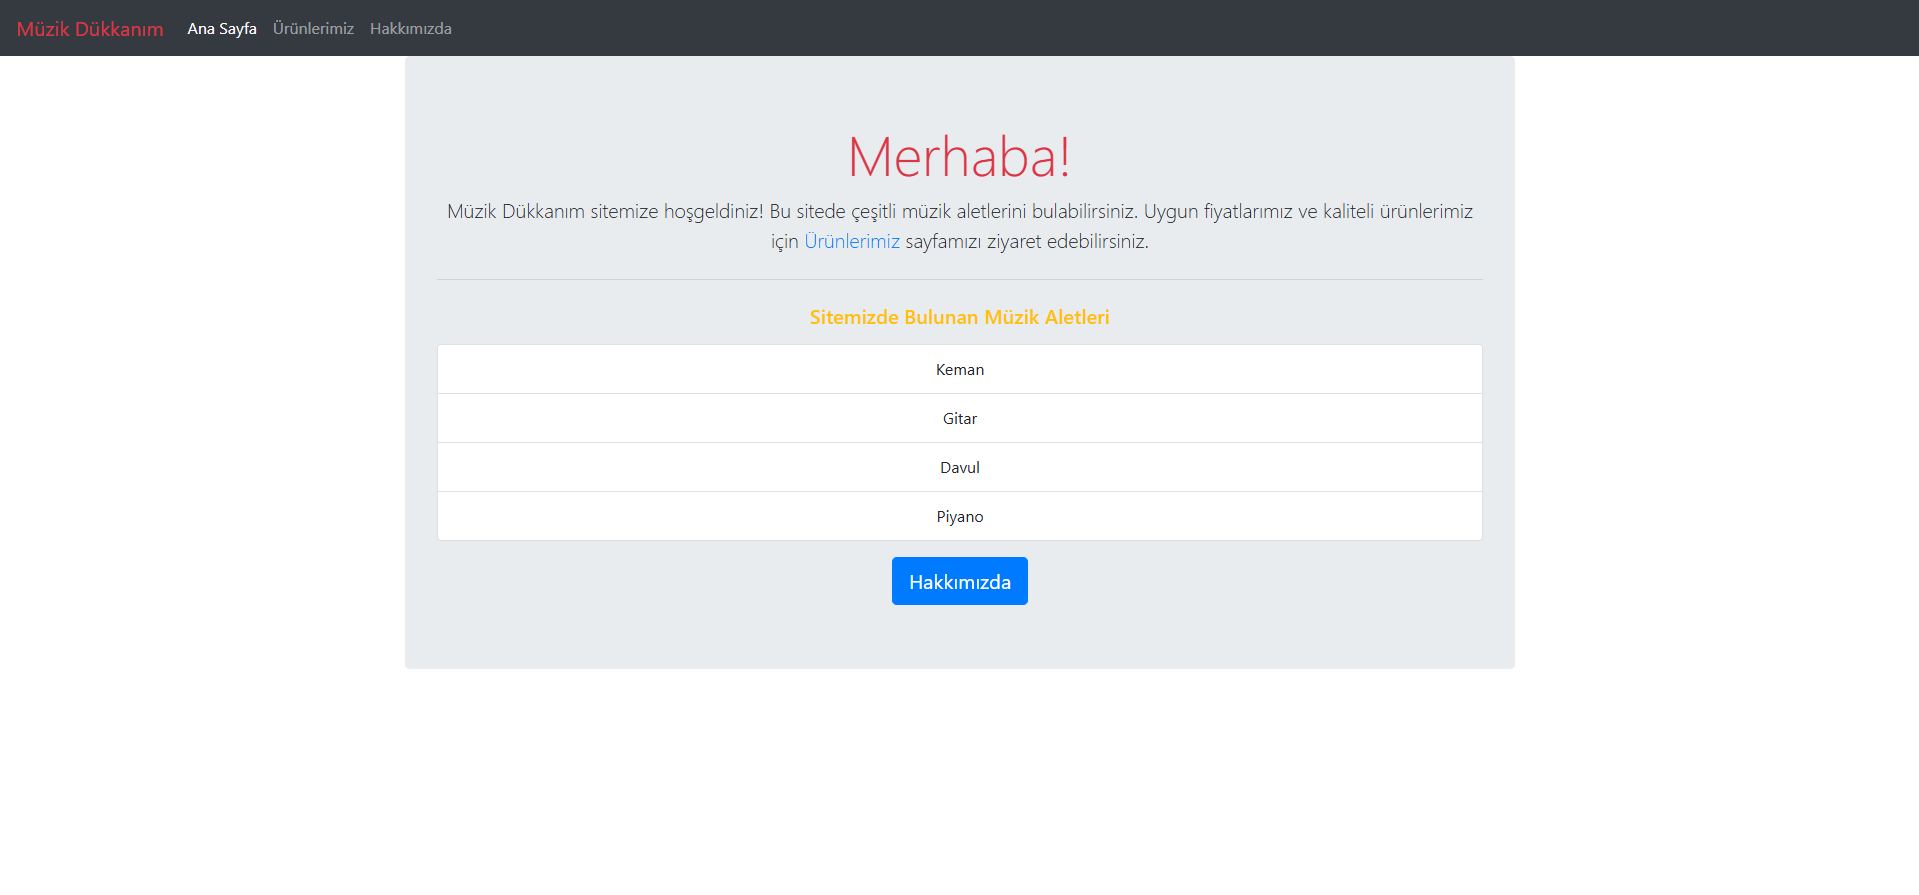
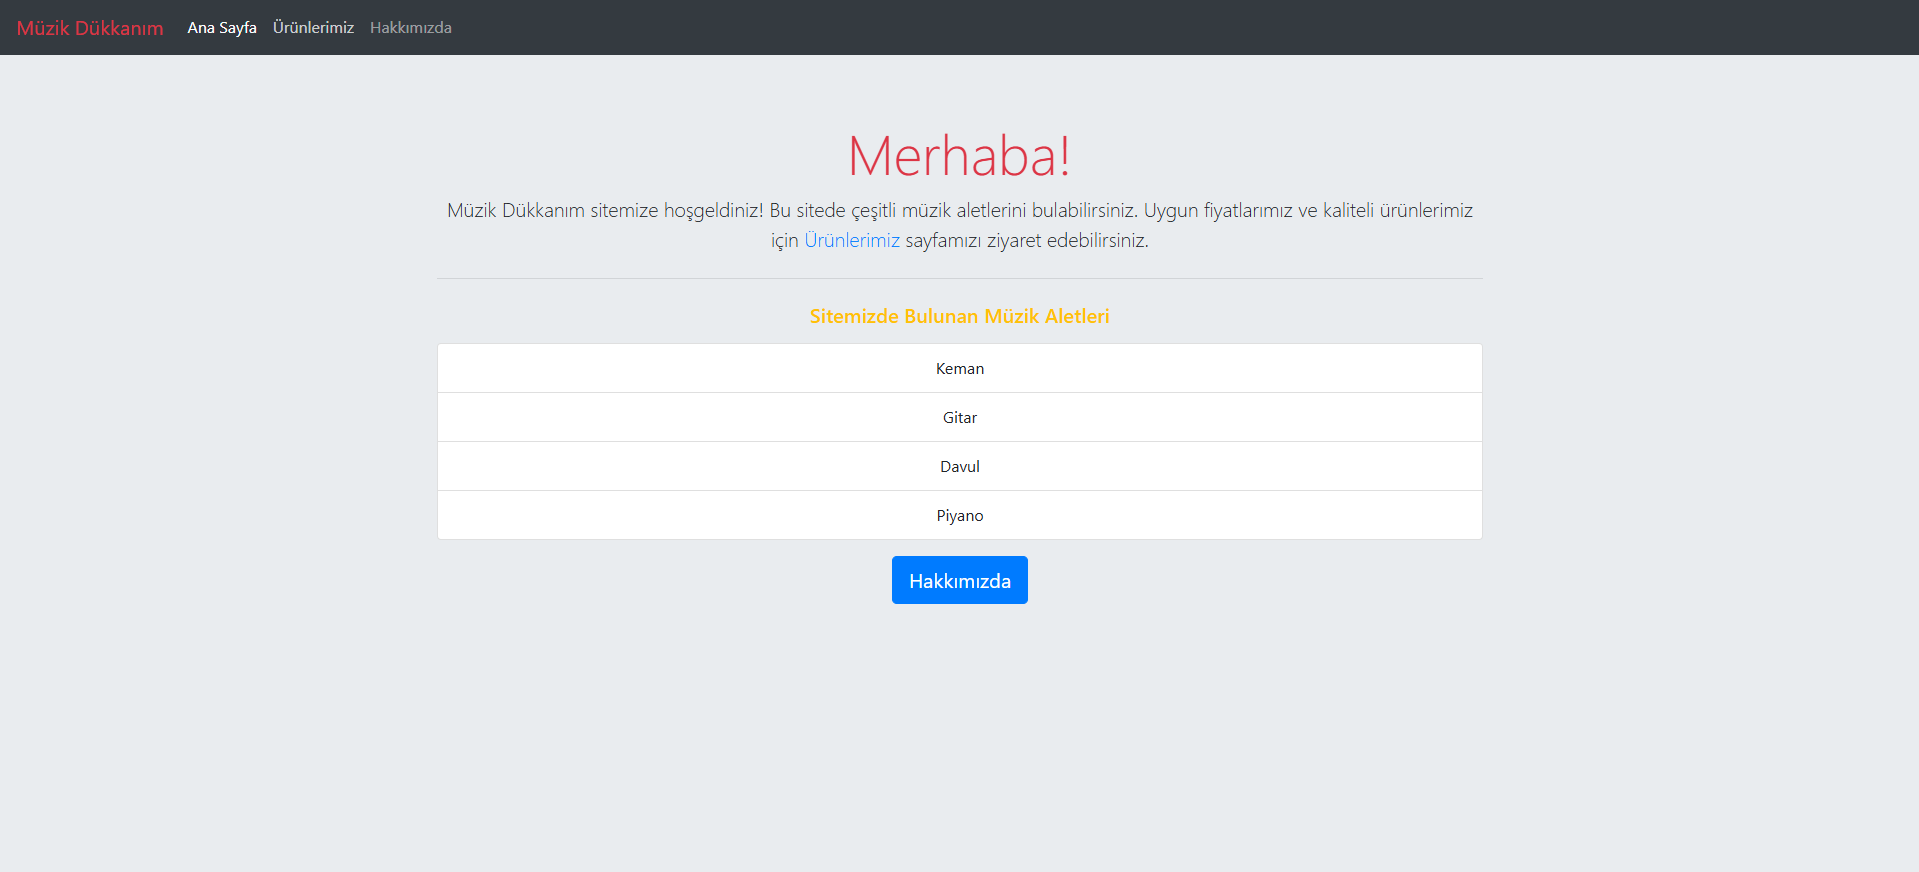
readme update

diff --git a/7-muzik-dukkanim-(semantic-html-ve-bootstrap kullanıldı)/css/style.css b/7-muzik-dukkanim-(semantic-html-ve-bootstrap kullanıldı)/css/style.css
@@ -1,6 +1,6 @@
-/* body {
+body {
     background-color: #E9ECEF;
-} */
+} 
 
 /* .card-img-top {
   max-height: 230px;
